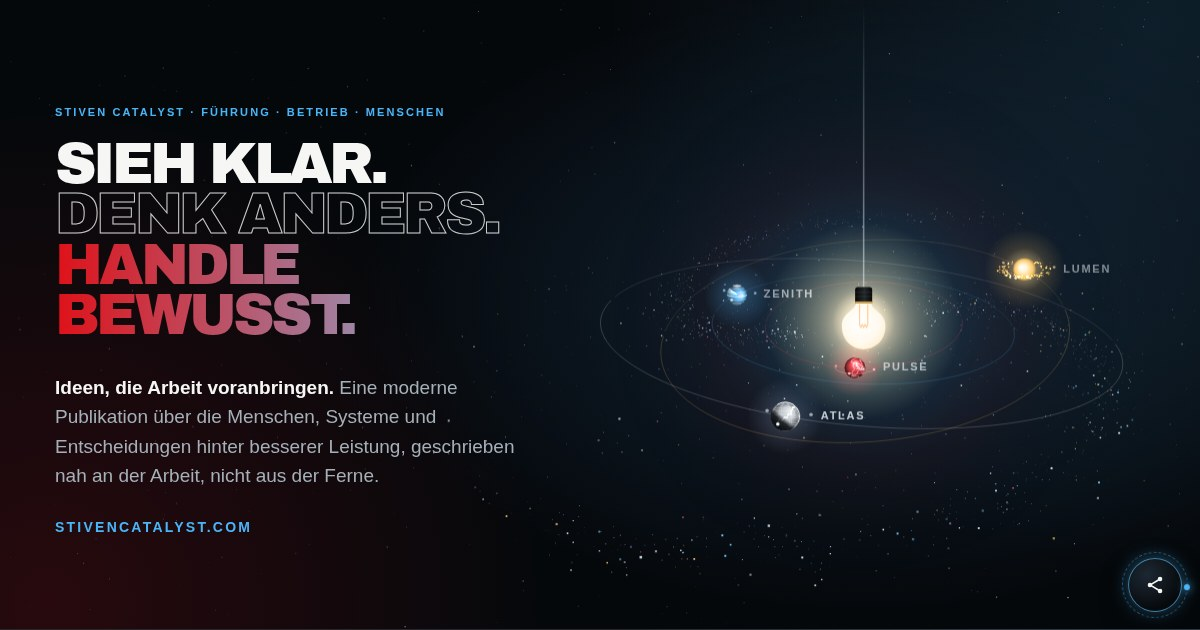
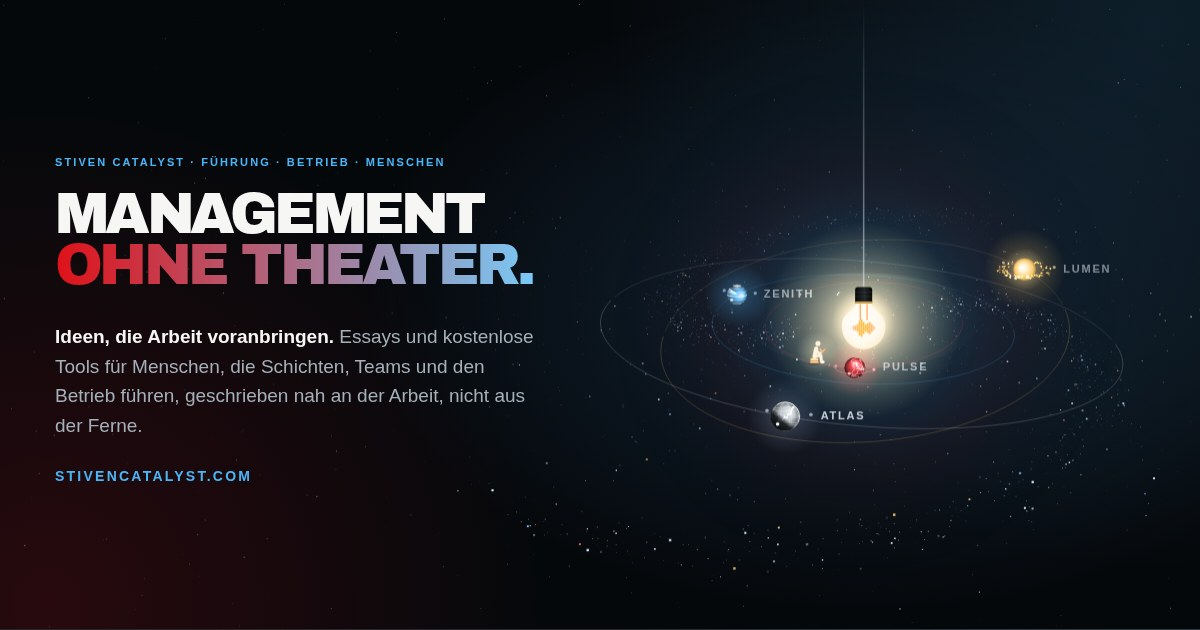
Open the homepage with "Management without theatre."
The hero headline was the brand line "See clearly. Think differently.
Act deliberately.", which could stand on any consultancy's site. It is
now "Management without theatre.": what the publication is about and
how it speaks. The line under it now says for whom: essays and free
tools for people who run shifts, teams and operations. The brand line
stays on the About page; BRAND.md records both.

The headline loses the outlined middle line: white, then the red-blue
gradient. The gradient line gets room above it so the dots of Ë and
the German umlauts are not cut off. The essays section that carried
the same words is now "Plain words about real work."

The homepage preview images are made again, now without the share
button that sat in their corner.

Claude-Session: https://claude.ai/code/session_016YSj2hjP7F3gfiqT4FTJdE

diff --git a/src/styles.css b/src/styles.css
@@ -460,7 +460,7 @@ button, input, select { font: inherit; }
   max-width: 900px;
   margin: 0;
   font-family: var(--display);
-  /* ~8em is the width of "DELIBERATELY." in Arial Black */
+  /* the longest word, "MANAGEMENT", is ~7.5em wide in Arial Black */
   font-size: clamp(34px, 12cqi, 108px);
   font-weight: 900;
   line-height: .88;
@@ -469,11 +469,11 @@ button, input, select { font: inherit; }
 }
 
 .cosmos h1 .line { display: block; }
-.cosmos h1 .line:nth-child(2) {
-  color: transparent;
-  -webkit-text-stroke: 1px color-mix(in srgb, var(--ink) 82%, transparent);
-}
 .cosmos h1 .act {
+  /* The gradient is painted inside the box, and with line-height .88 the box stops below the
+     dots of Ë and the top of Ä/Ö/Ü: room above, taken back by the margin. */
+  margin-top: -.2em;
+  padding-top: .2em;
   background: linear-gradient(90deg, var(--red), var(--blue-soft));
   -webkit-background-clip: text;
   background-clip: text;

diff --git a/BRAND.md b/BRAND.md
@@ -5,10 +5,15 @@
 
 The visual identity is rooted in the original Catalyst Coaching mark: a hanging light bulb, strong white typography, a red-to-blue-to-dark gradient, and a restrained gold accent.
 
+## Headline
+**Management without theatre.**
+
+Supporting line: **Ideas that move work forward.** The homepage opens with both: the headline says what the publication is about and how it speaks, the line under it says for whom.
+
 ## Brand line
 **See clearly. Think differently. Act deliberately.**
 
-Supporting line: **Ideas that move work forward.**
+The philosophy behind the work, on the About page.
 
 ## Meaning of the symbol
 - **The light** represents clarity: the moment a complex problem becomes understandable.
